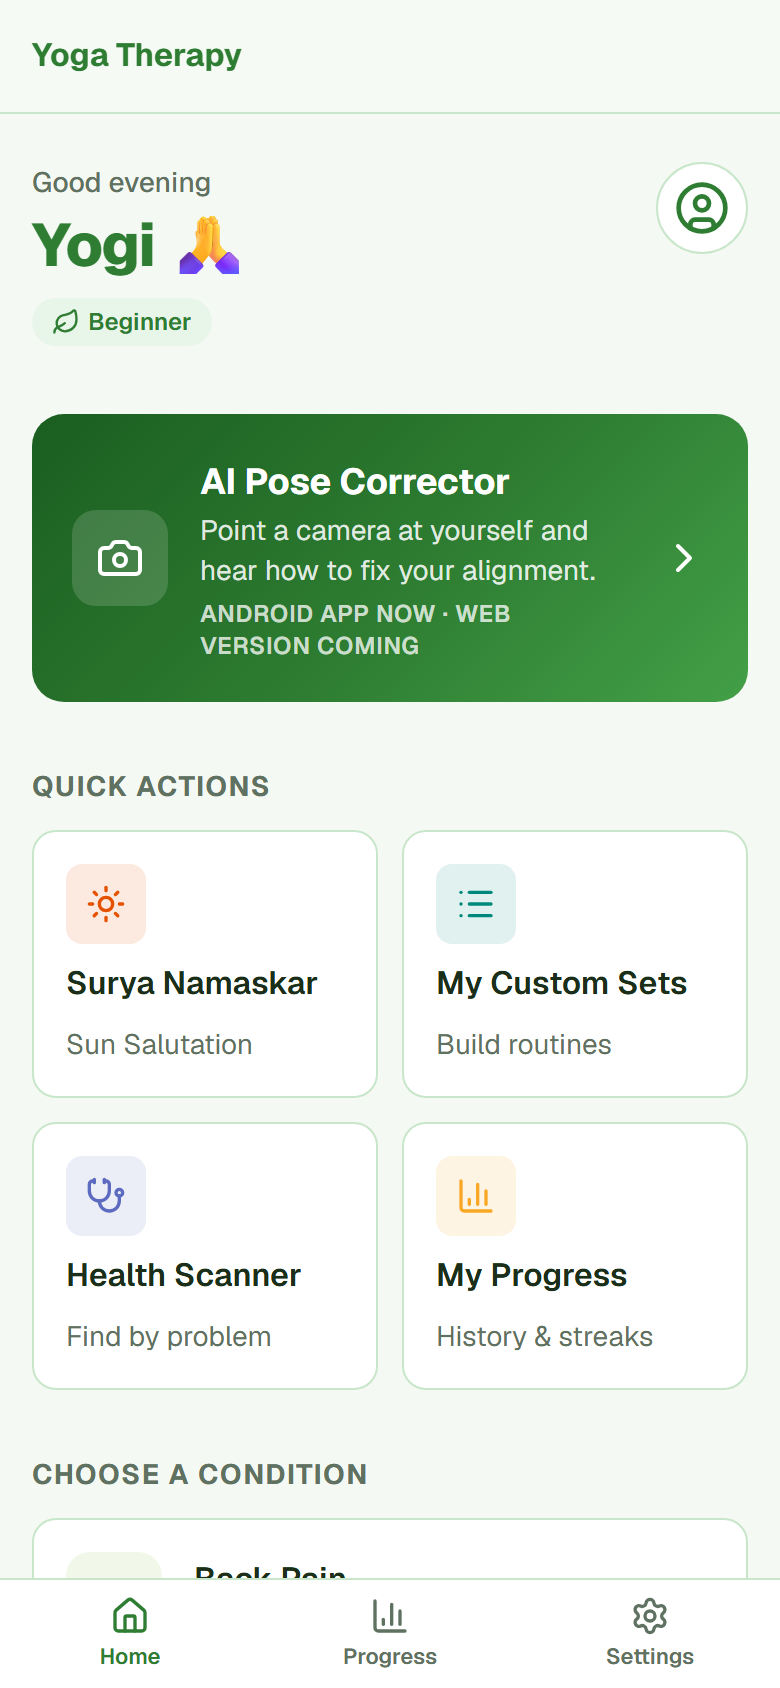
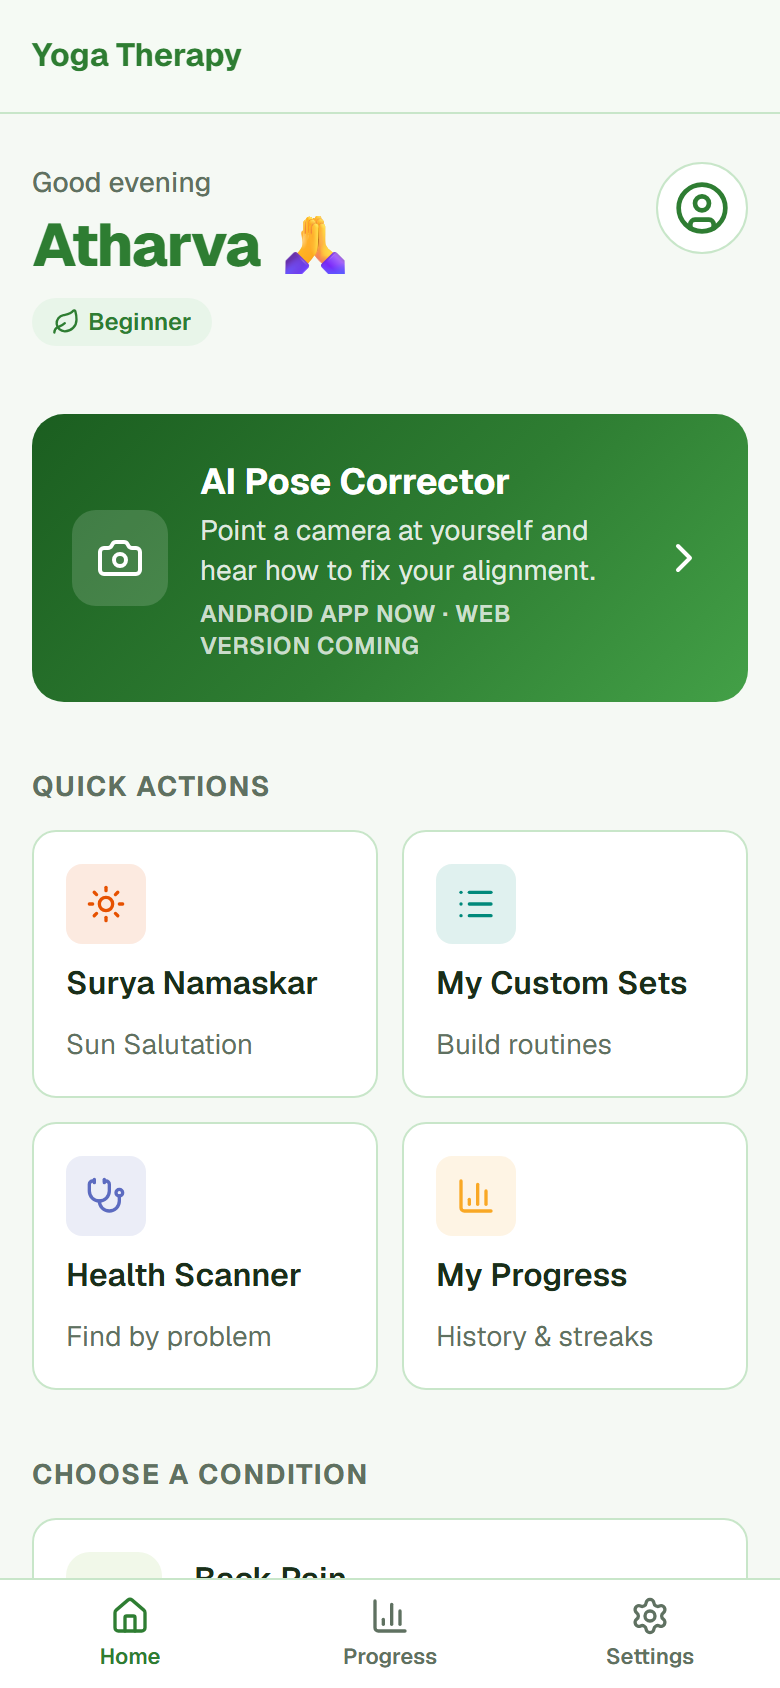
docs(readme): add onboarding screenshot, show a named profile on home [skip ci]

Changed region(s): [[0.0308, 0.1232, 0.3385, 0.1848], [0.3692, 0.1232, 0.4615, 0.1848]]

diff --git a/README.md b/README.md
@@ -38,10 +38,11 @@ steps and a feature walkthrough.
 
 <table>
   <tr>
-    <td width="25%"><a href="assets/readme/home.png"><img src="assets/readme/home.png" alt="Home screen with the AI pose corrector, quick actions and conditions" /></a><br /><sub><b>Home</b>: pose corrector, quick actions and conditions</sub></td>
-    <td width="25%"><a href="assets/readme/condition.png"><img src="assets/readme/condition.png" alt="Back pain condition page with recommended poses and guided practice" /></a><br /><sub><b>Condition</b>: poses for your level, with guided practice</sub></td>
-    <td width="25%"><a href="assets/readme/pose.png"><img src="assets/readme/pose.png" alt="Tree pose detail page with duration and level" /></a><br /><sub><b>Pose detail</b>: duration, level and benefits</sub></td>
-    <td width="25%"><a href="assets/readme/surya.png"><img src="assets/readme/surya.png" alt="Surya Namaskar 12-step sequence with round counter" /></a><br /><sub><b>Surya Namaskar</b>: 12-step sequence with breath cues</sub></td>
+    <td width="20%"><a href="assets/readme/onboarding.png"><img src="assets/readme/onboarding.png" alt="Onboarding screen asking for a name and experience level" /></a><br /><sub><b>Onboarding</b>: name and experience level, stored on the device</sub></td>
+    <td width="20%"><a href="assets/readme/home.png"><img src="assets/readme/home.png" alt="Home screen with the AI pose corrector, quick actions and conditions" /></a><br /><sub><b>Home</b>: pose corrector, quick actions and conditions</sub></td>
+    <td width="20%"><a href="assets/readme/condition.png"><img src="assets/readme/condition.png" alt="Back pain condition page with recommended poses and guided practice" /></a><br /><sub><b>Condition</b>: poses for your level, with guided practice</sub></td>
+    <td width="20%"><a href="assets/readme/pose.png"><img src="assets/readme/pose.png" alt="Tree pose detail page with duration and level" /></a><br /><sub><b>Pose detail</b>: duration, level and benefits</sub></td>
+    <td width="20%"><a href="assets/readme/surya.png"><img src="assets/readme/surya.png" alt="Surya Namaskar 12-step sequence with round counter" /></a><br /><sub><b>Surya Namaskar</b>: 12-step sequence with breath cues</sub></td>
   </tr>
 </table>
 
